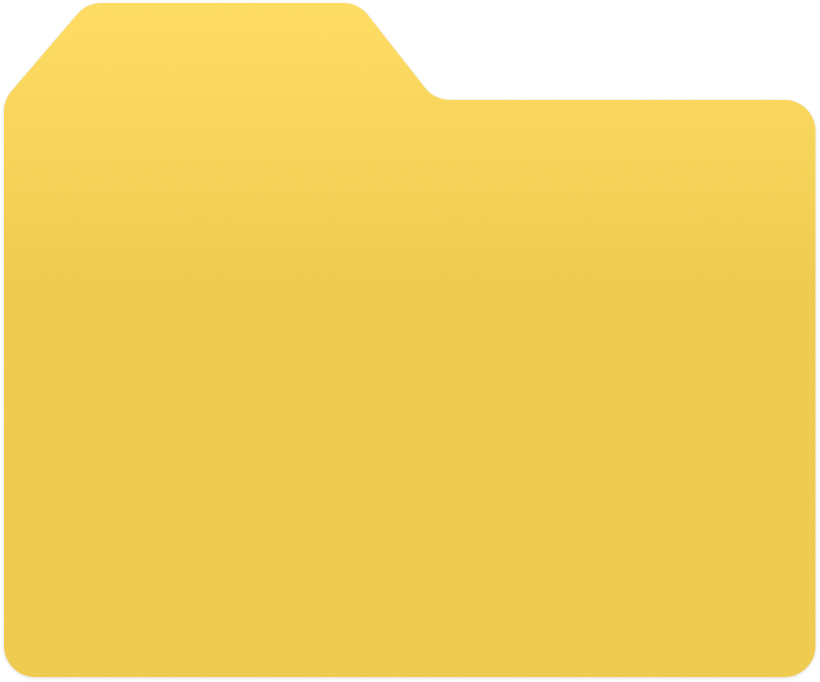
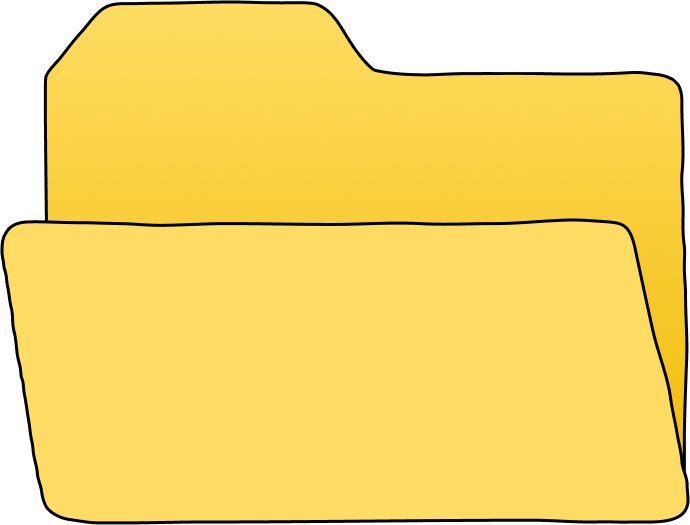
feat: improve doodliness

Changed region(s): [[0.0, 0.0, 1.0, 1.0]]

diff --git a/src/components/folder/index.tsx b/src/components/folder/index.tsx
@@ -16,17 +16,22 @@ export default function Folder({
     <div className="relative w-[34rem]">
       <img className="" src="/folder-back.png" />
       {title ? (
-        <div className="absolute left-[4.5rem] top-[1.5rem] text-2xl font-bold">
+        <div
+          style={{
+            backgroundImage: "url(/word-border.png)",
+            backgroundSize: "100% 80%",
+            backgroundRepeat: "no-repeat",
+            backgroundPosition: "center",
+          }}
+          className="absolute left-[1.5rem] top-[1.5rem] w-fit min-w-[200px] p-4 text-center"
+        >
           {title}
         </div>
       ) : null}
       {insert ? (
         <div className="absolute right-[4rem] top-0">{insert}</div>
       ) : null}
-      <img
-        className="absolute bottom-0 right-0 w-[37rem] max-w-none"
-        src="/folder-front.png"
-      />
+      <img className="absolute bottom-0 right-0" src="/folder-front.png" />
       <div
         className={
           "absolute inset-8 isolate z-10 grid items-end justify-center"

diff --git a/src/pages/today.tsx b/src/pages/today.tsx
@@ -1,3 +1,4 @@
+import { useAuth } from "@/hooks/auth";
 import Folder from "../components/folder";
 
 type Session = {
@@ -92,11 +93,21 @@ const data: Session[] = [
 ];
 
 export default function Today() {
+  const { data: auth } = useAuth();
   const sessions = data;
+
   return (
     <div className="p flex flex-col gap-8 px-4 lg:flex-row">
-      <div className="mx-auto pb-8 pl-16">
-        <Folder />
+      <div className="mx-auto pb-8">
+        <Folder
+          title={
+            <>
+              <span className="text-2xl font-bold">{auth?.nickname}</span>
+              {" / "}
+              <span>Lv{3}</span>
+            </>
+          }
+        />
       </div>
       <div className="mx-auto flex grow flex-col gap-6">
         {sessions.map((session) => {
